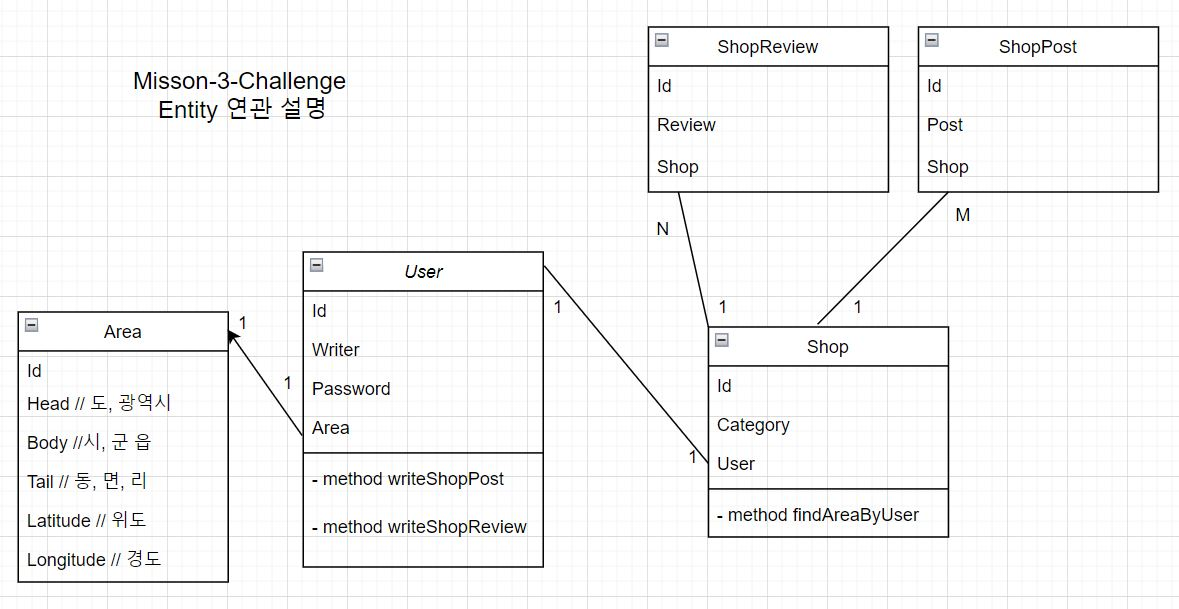
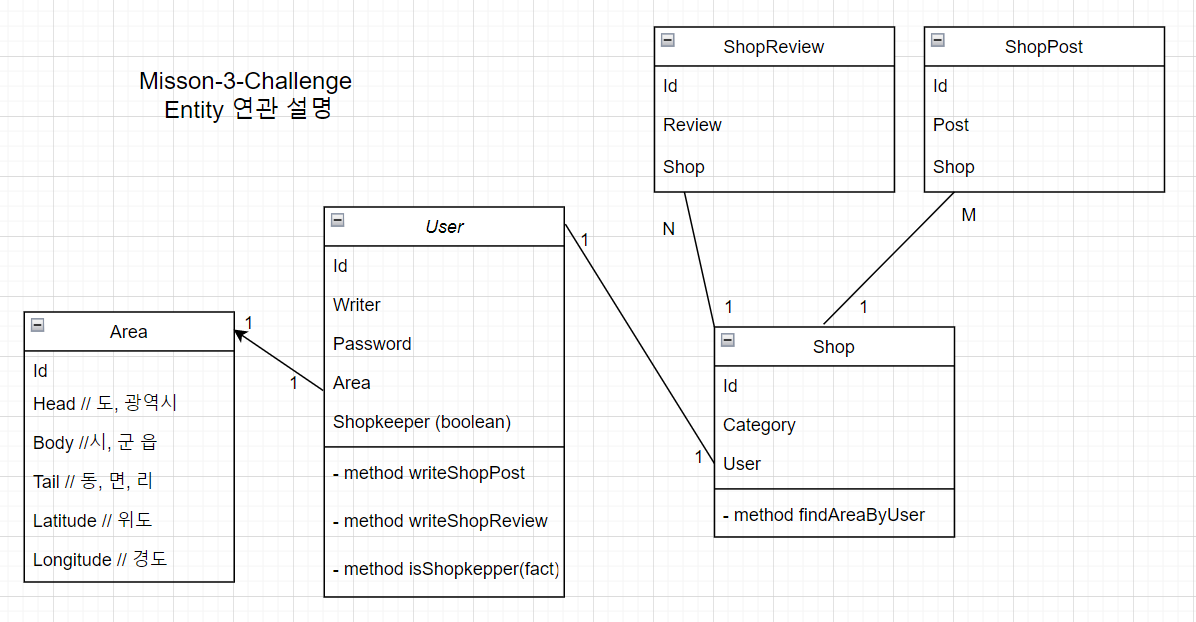
shopkeeper or user 구분점 추가, 기본 마무리 끝

diff --git a/Community/src/main/java/com/mission3/Community/model/User.java b/Community/src/main/java/com/mission3/Community/model/User.java
@@ -22,6 +22,12 @@ public class User {
     @JoinColumn(name = "shop_id")
     private Area area;
 
+    public void isShopkeeper(boolean fact) {
+        Shopkeeper = fact;
+    }
+
+    private boolean Shopkeeper;
+
     public User(String writer, String password) {
         this.writer = writer;
         this.password = password;
